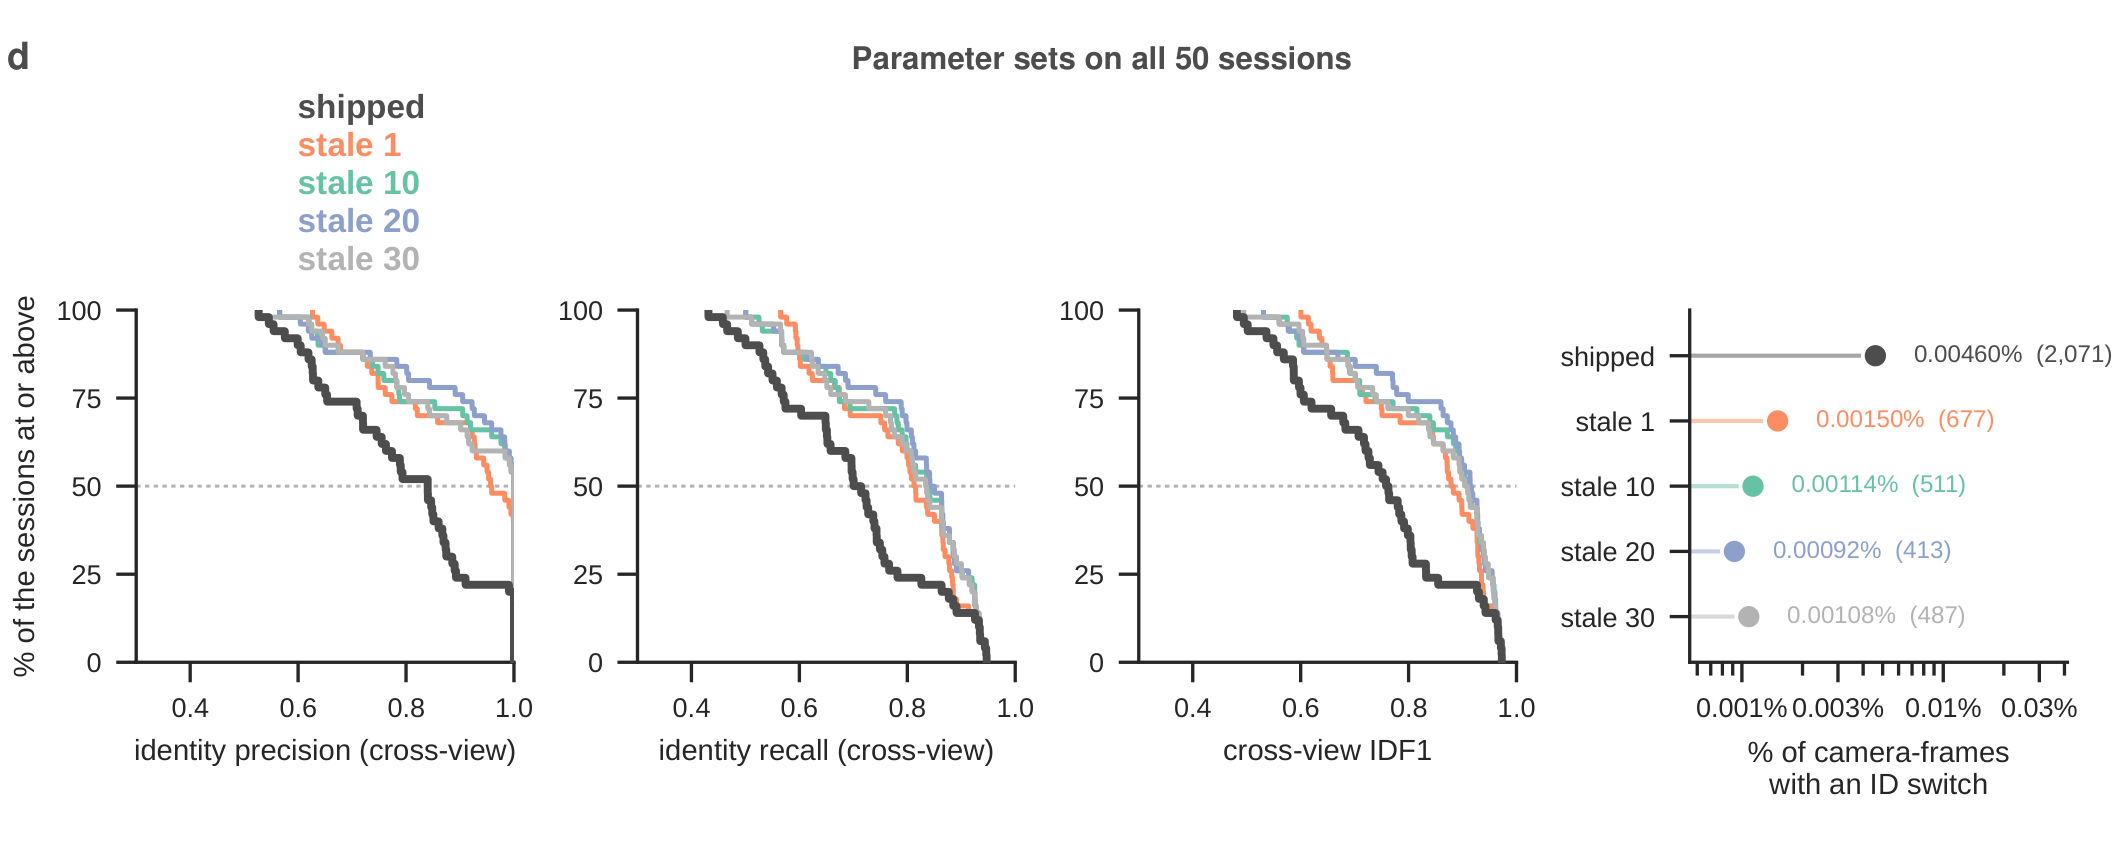
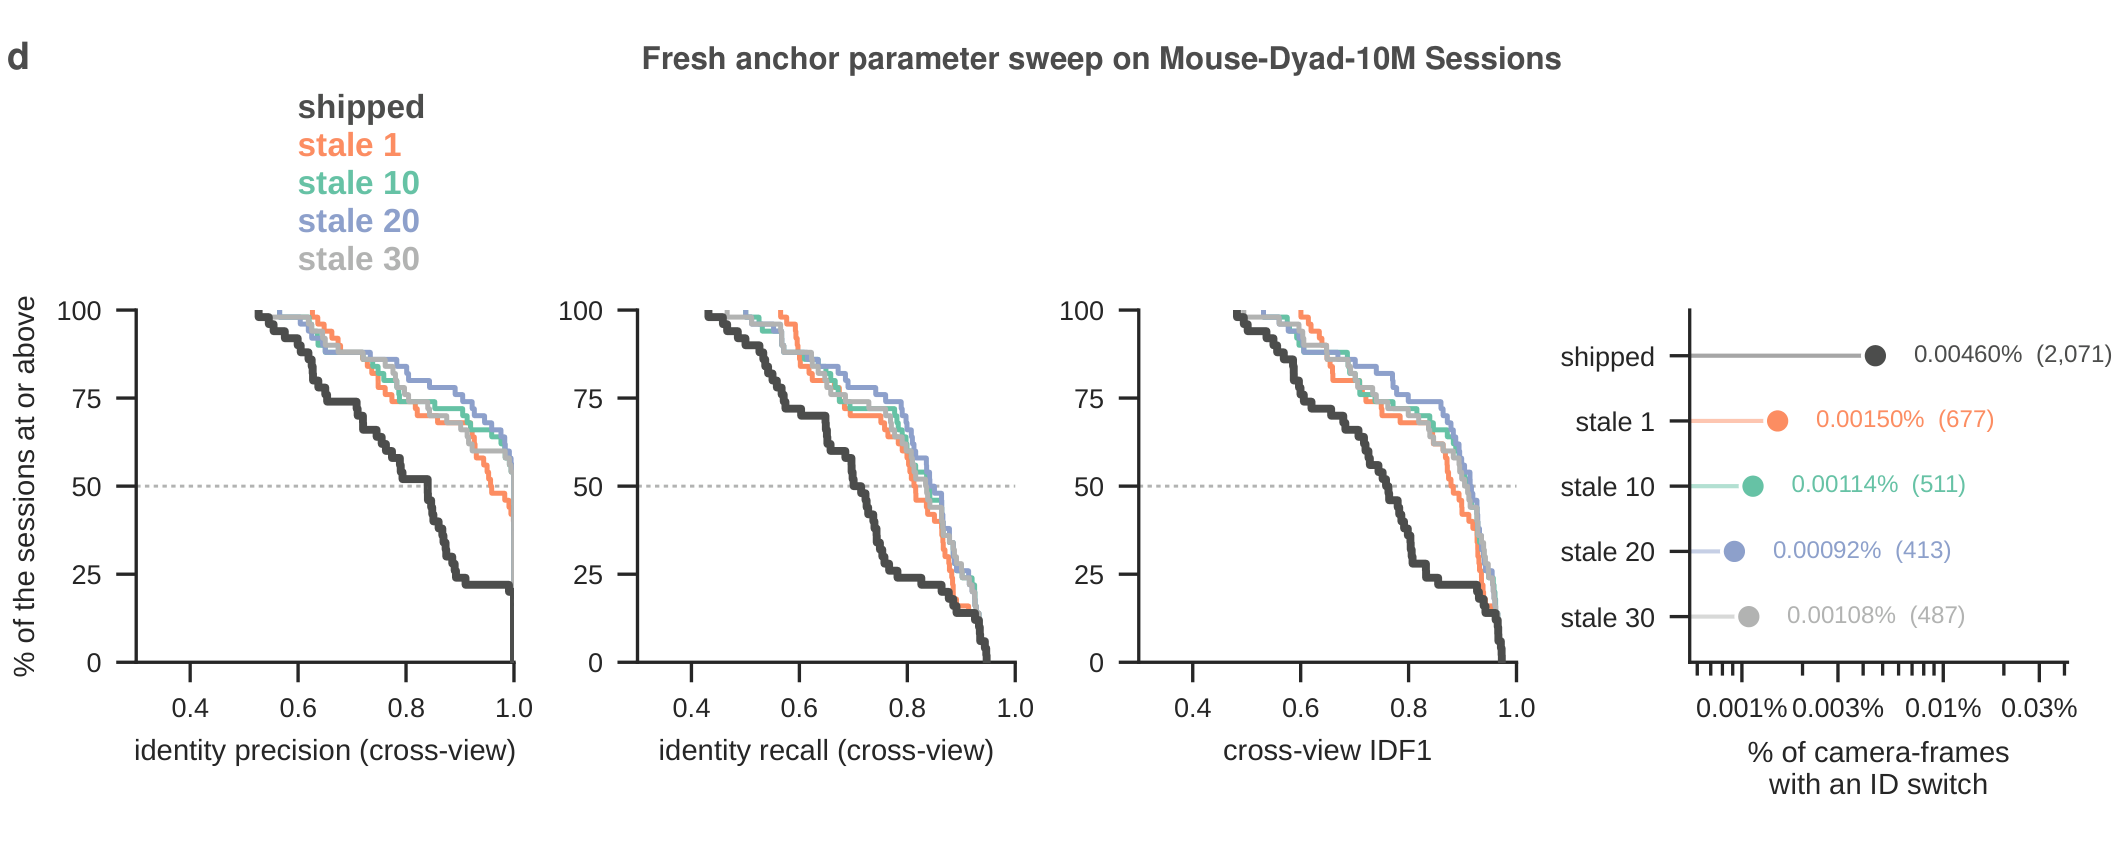
figs: title Fig 8d for the experiment it runs
"Fresh anchor parameter sweep on Mouse-Dyad-10M Sessions" names what the sweep
is rather than describing its bookkeeping. The session count the old title
carried is already in the panel's footnote, which states all 50 proofread
sessions and the camera-frame denominator.

Changed region(s): [[0.3104, 0.0306, 0.7451, 0.0917]]

diff --git a/figs/assemble.py b/figs/assemble.py
@@ -138,7 +138,10 @@ TITLES = {
     (8, "a"): "ID-switch rate per threshold",
     (8, "b"): "Cross-view IDF1 per threshold",
     (8, "c"): "Where the IDF1 goes",
-    (8, "d"): "Parameter sets on all 50 sessions",
+    # Names the experiment rather than the sweep's bookkeeping (Eric, 2026-08-19).
+    # The n it used to carry is in the panel's own footnote, which states all 50
+    # proofread sessions and the camera-frame count.
+    (8, "d"): "Fresh anchor parameter sweep on Mouse-Dyad-10M Sessions",
     (8, "e"): "All 50 sessions",
     # FIGURE 9 IS EXPLORATORY AND UNPLACED, on the same footing as Figure 8: no entry in
     # FIGURE-LEGENDS.md, METHODS.md, RESULTS.md or CAPTIONS.md, and no panel of Figures
